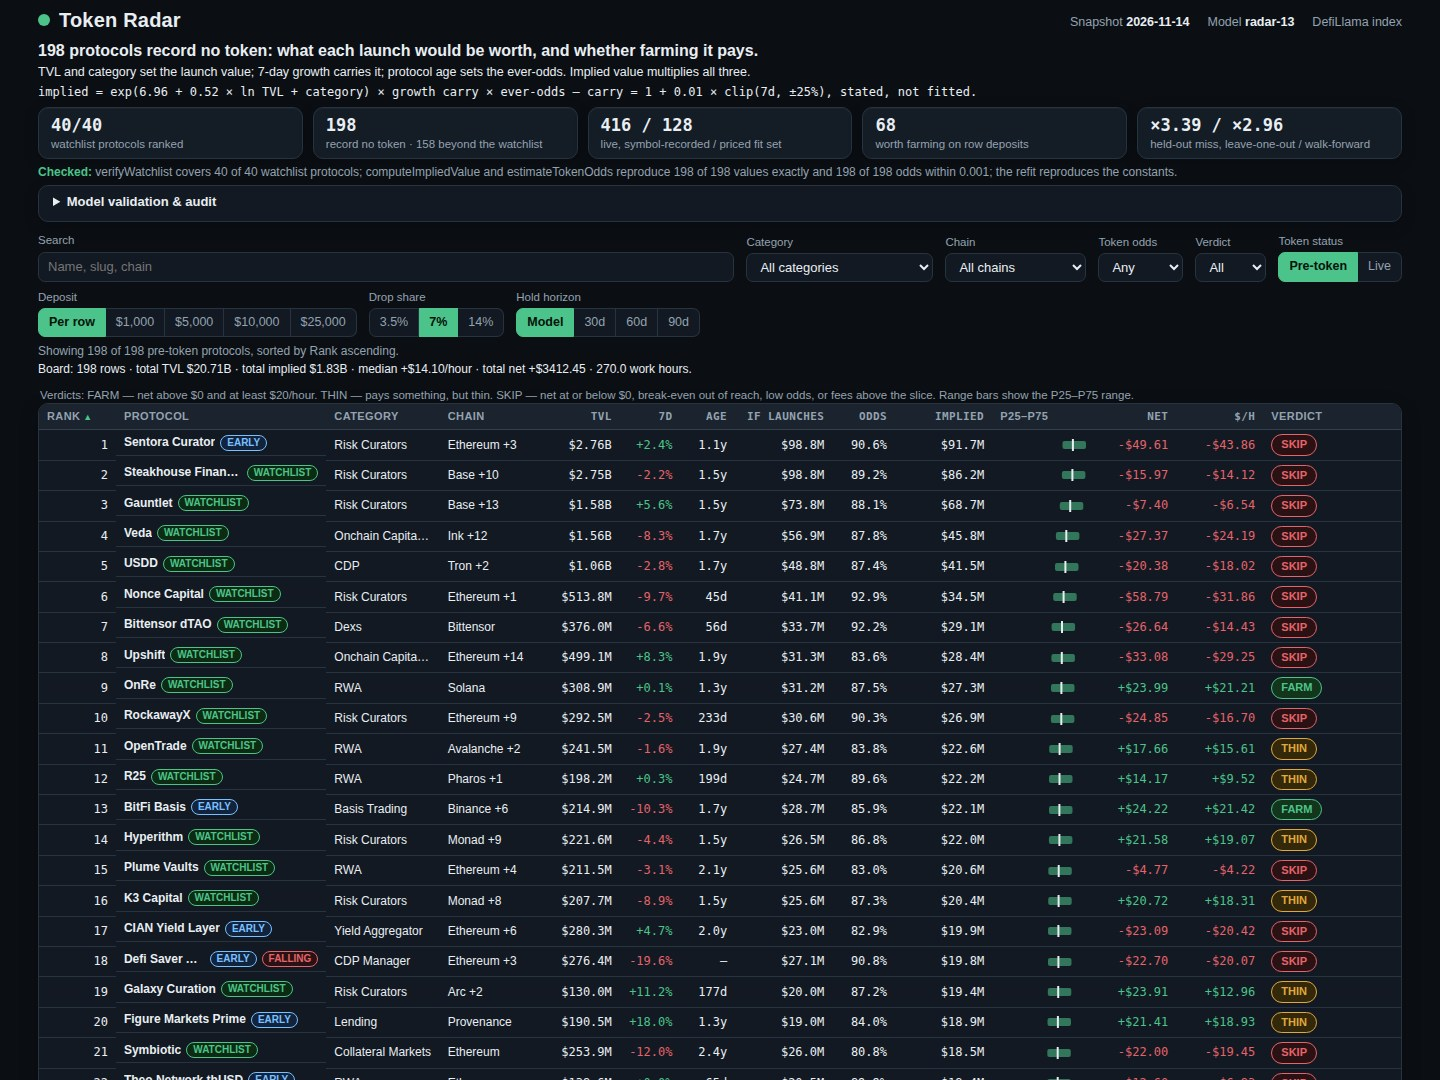
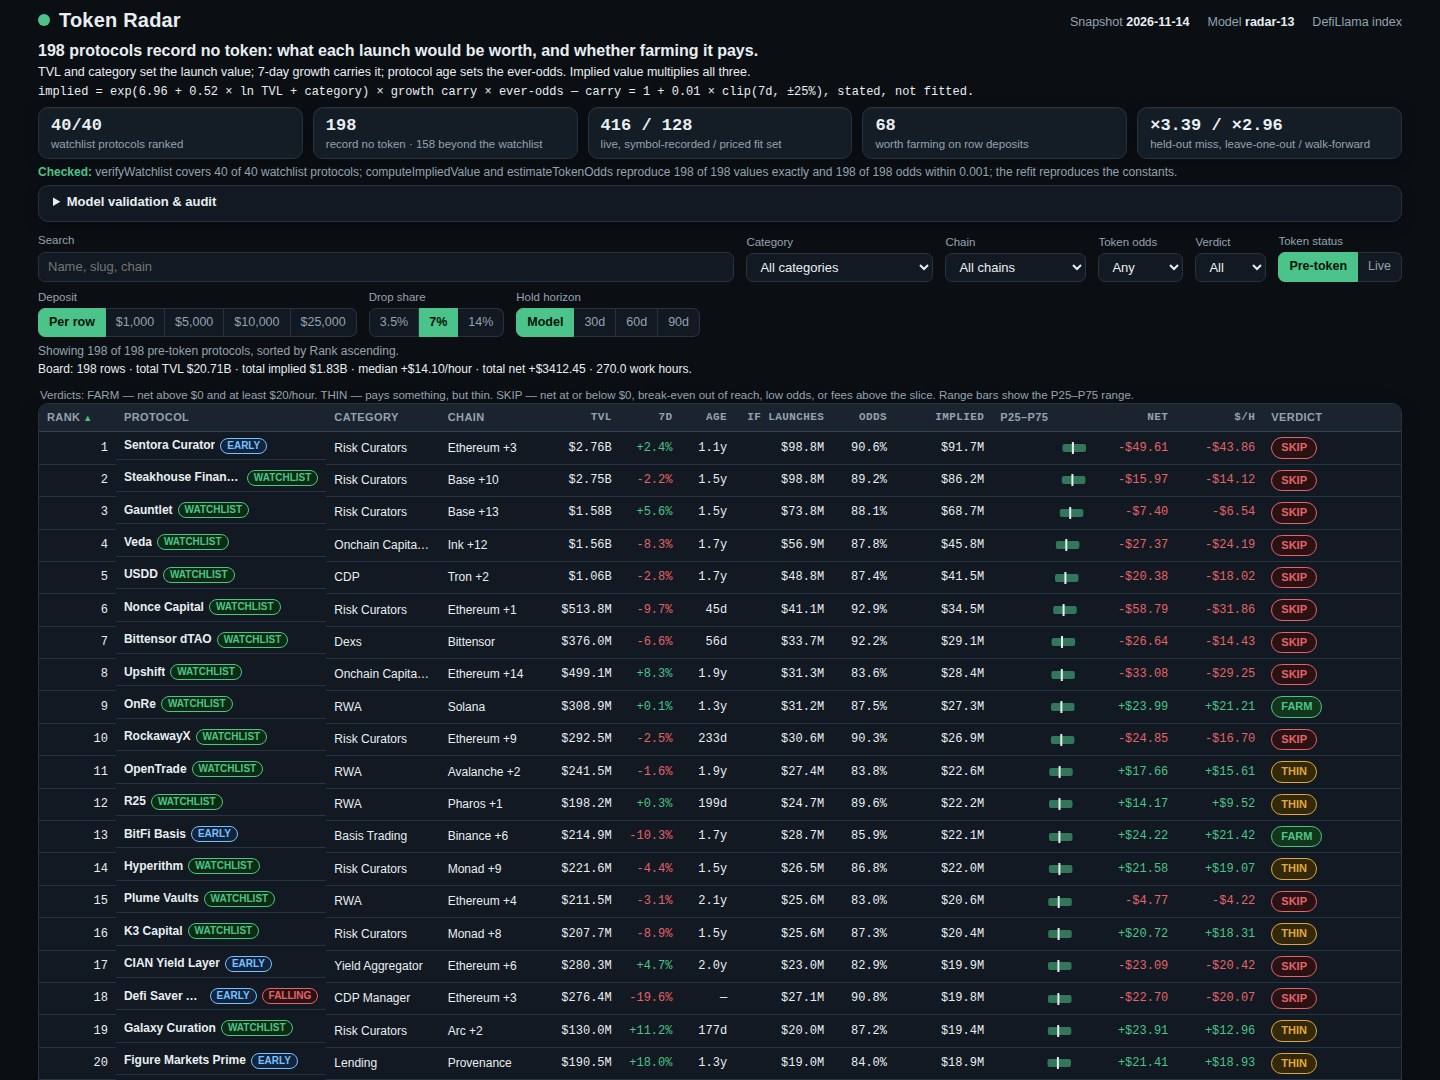
radar-13 final polish: board padding +2px kills bottom-row sliver, 3-filtered recaptured Farm + $/h descending

diff --git a/dashboard/app.css b/dashboard/app.css
@@ -63,11 +63,11 @@ td{border-bottom:1px solid var(--border)}
 .settotals b{font-family:var(--num)}
 .table-wrap{overflow-x:auto;background:var(--surface);border:1px solid var(--border);border-radius:var(--radius);box-shadow:0 6px 18px rgba(0,0,0,.3)}
 #board{font-size:12px;table-layout:fixed}
-#board thead th{background:var(--surface2);position:sticky;top:0;white-space:nowrap;cursor:pointer;padding:5px 8px;overflow:hidden;text-overflow:ellipsis}
+#board thead th{background:var(--surface2);position:sticky;top:0;white-space:nowrap;cursor:pointer;padding:6px 8px;overflow:hidden;text-overflow:ellipsis}
 #board thead th .arrow{color:var(--accent);font-size:9px}
 #board tbody tr{cursor:pointer}
 #board tbody tr:hover{background:#18222d}
-#board td{padding:4px 8px;vertical-align:middle;overflow:hidden;text-overflow:ellipsis;white-space:nowrap}
+#board td{padding:5px 8px;vertical-align:middle;overflow:hidden;text-overflow:ellipsis;white-space:nowrap}
 #board td.num,#board th.num{text-align:right;font-family:var(--num);white-space:nowrap}
 #board td.name{display:flex;align-items:center}
 #board .tag{flex:none}
